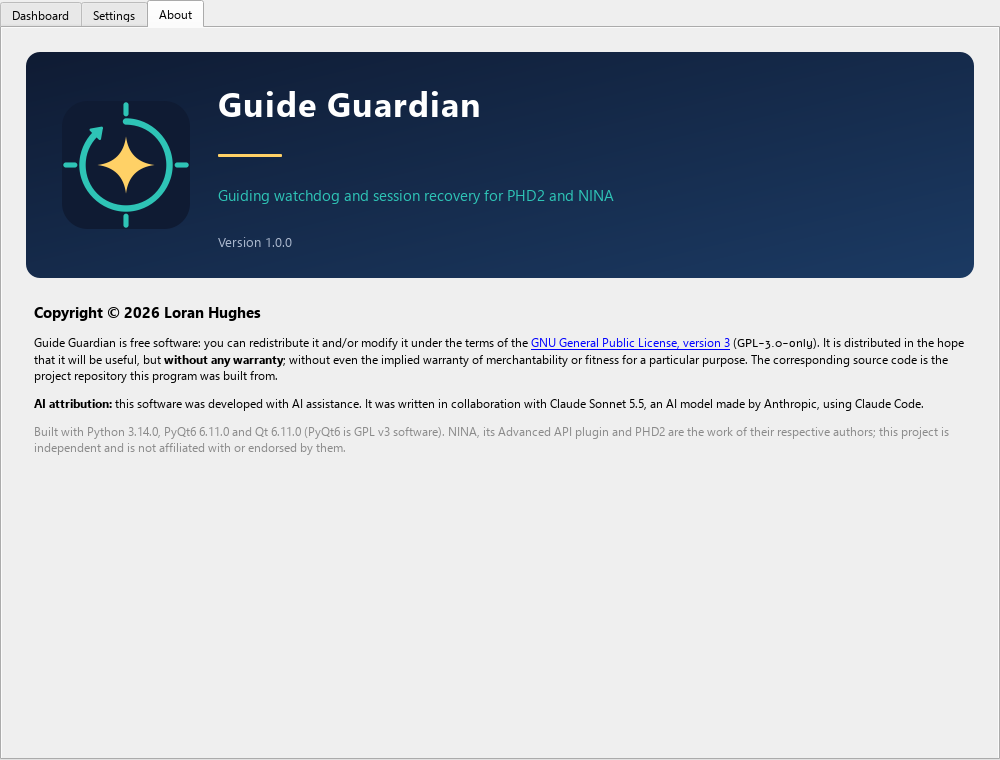
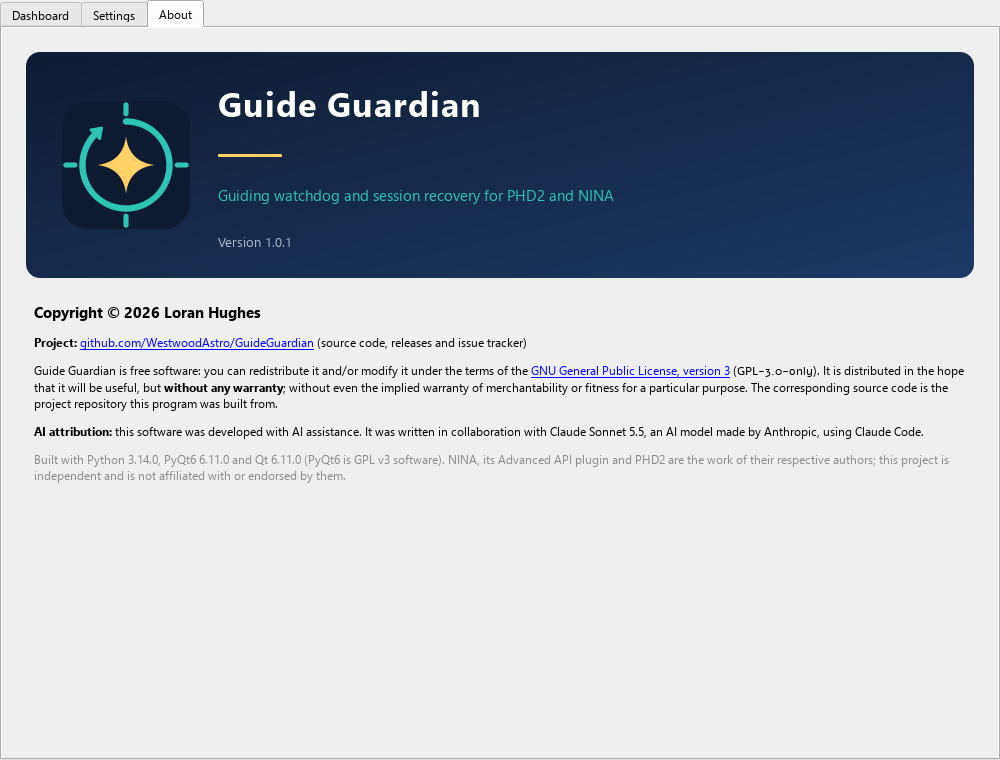
About tab: link to the GitHub project
Adds a clickable "Project" line under the copyright (PROJECT_URL) and
refreshes the README's About screenshot to show it.

Changed region(s): [[0.031, 0.4237, 0.961, 0.6355]]

diff --git a/guide_guardian.py b/guide_guardian.py
@@ -94,6 +94,7 @@ time = _Clock()
 
 APP_NAME = "Guide Guardian"
 APP_VERSION = "1.0.1"
+PROJECT_URL = "https://github.com/WestwoodAstro/GuideGuardian"
 APP_TAGLINE = "Guiding watchdog and session recovery for PHD2 and NINA"
 DEFAULT_URL = "http://localhost:1888/v2/api"
 POLL_TIMEOUT = (3.05, 8)          # (connect, read) seconds for status polls
@@ -3943,6 +3944,8 @@ class MainWindow(QMainWindow):
         gpl = "https://www.gnu.org/licenses/gpl-3.0.html"
         body = QLabel(
             f"<p style='font-size:15px'><b>Copyright &copy; 2026 Loran Hughes</b></p>"
+            f"<p><b>Project:</b> <a href='{PROJECT_URL}'>{PROJECT_URL.removeprefix('https://')}</a> "
+            f"(source code, releases and issue tracker)</p>"
             f"<p>Guide Guardian is free software: you can redistribute it and/or modify it under the terms of the "
             f"<a href='{gpl}'>GNU General Public License, version 3</a> (<code>GPL-3.0-only</code>). It is distributed in the "
             f"hope that it will be useful, but <b>without any warranty</b>; without even the implied warranty of "
